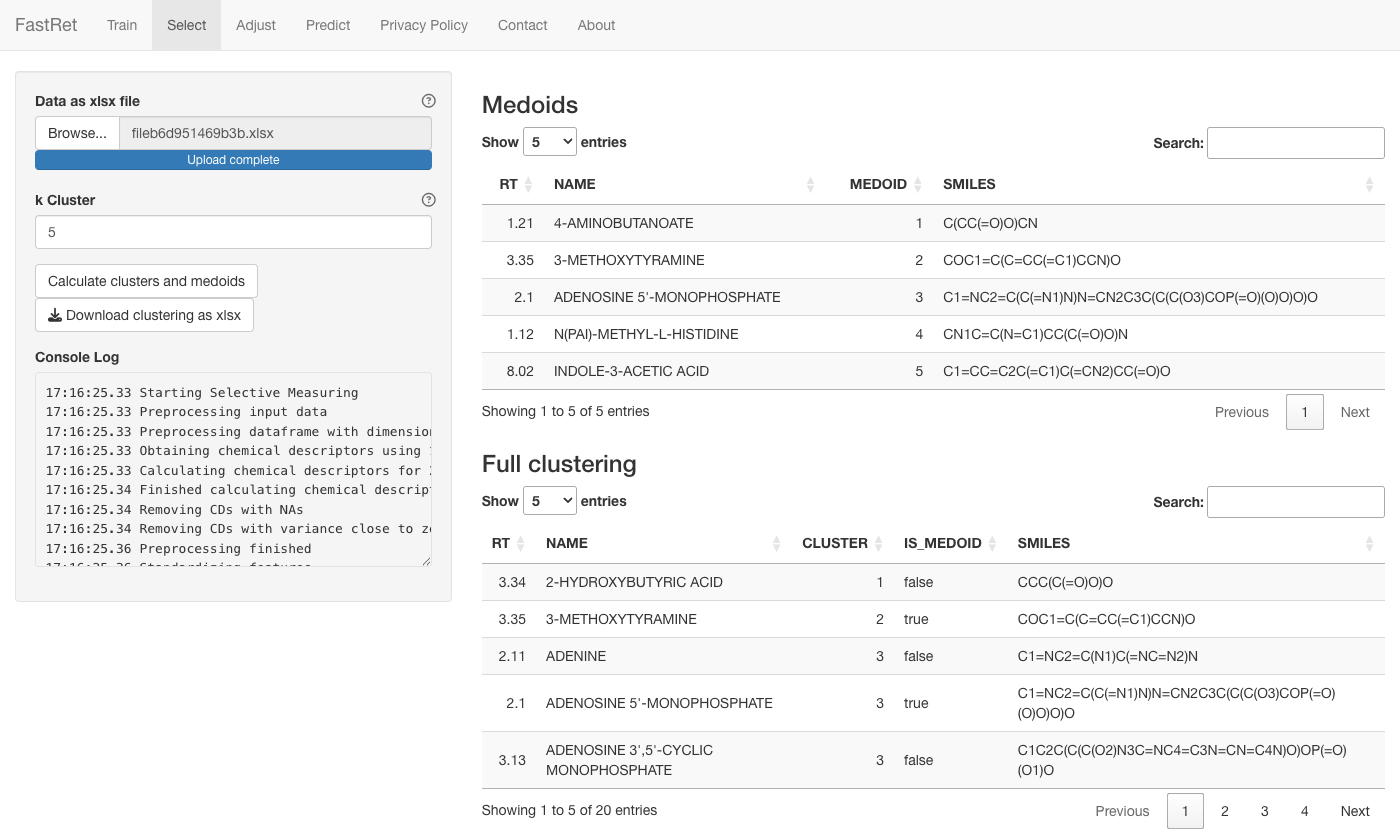
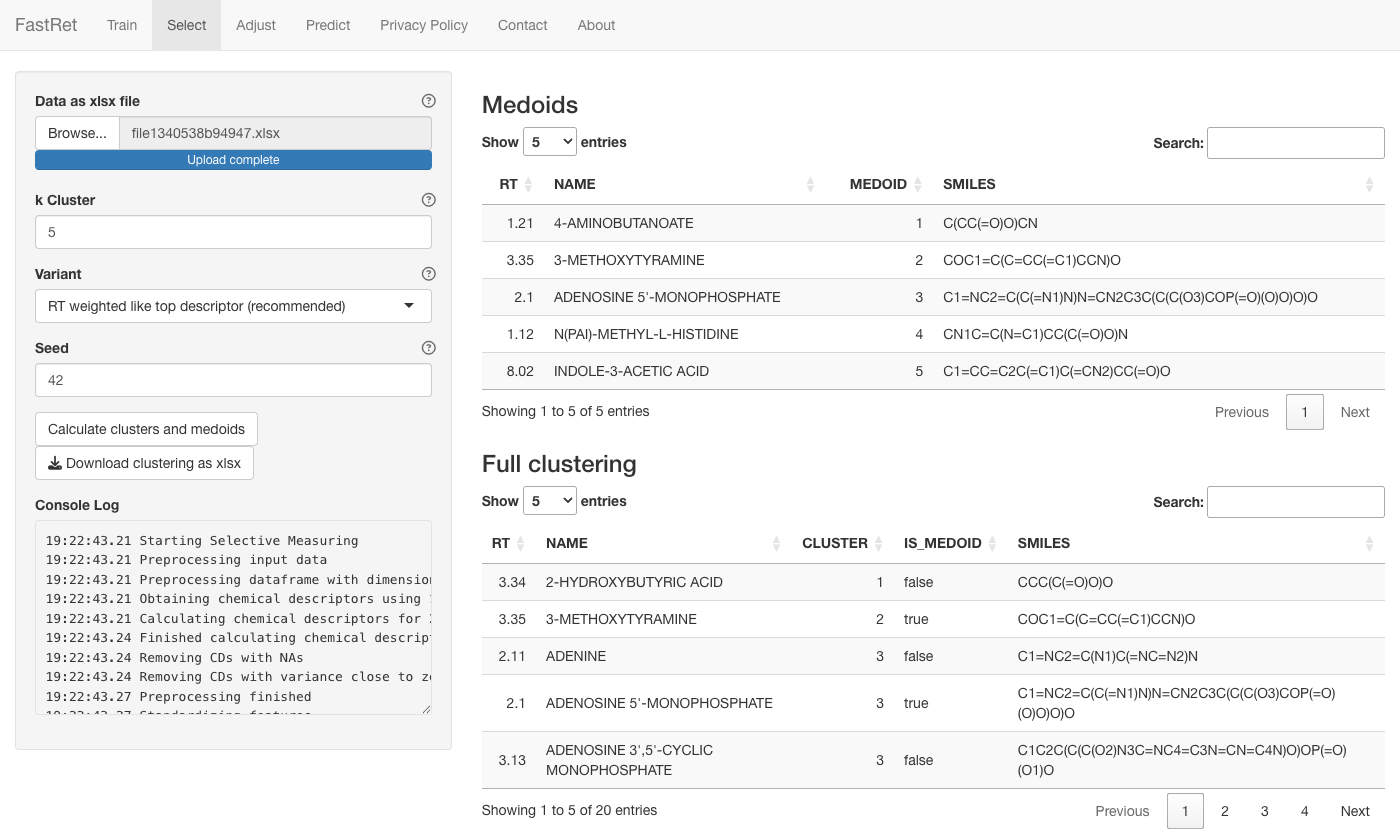
GUI: add selection variant + seed to the Select tab; tighten GUI vignette
Selective Measuring tab:
- Expose the selection variant (rt_coef: RT weighted like the top descriptor /
  unscaled / excluded / RT-only) and the random seed; the server passes both to
  selective_measuring(), so the variant is user-choosable and a selection is
  reproducible from the GUI.

Docs:
- Rewrite the GUI-Usage vignette for users: shorter, plainer sentences, no
  release-change commentary; document the new Select variant/seed controls.
- Regenerate all GUI screenshots to match the current layout.

Changed region(s): [[0.0307, 0.3016, 0.3071, 0.8745], [0.0921, 0.1508, 0.215, 0.1809]]

diff --git a/NEWS.md b/NEWS.md
@@ -57,6 +57,10 @@ GUI:
    console logs" checkboxes were removed), including a new console-log box for
    *Selective Measuring*.
 
+6. The *Selective Measuring* tab now exposes the selection variant (the `rt_coef`
+   weighting of retention time) and the random seed, so users can pick the
+   variant and reproduce a selection from the GUI.
+
 Testing:
 
 1. Added `shinytest2` end-to-end GUI tests (`tests/testthat/test-gui-e2e.R`)
